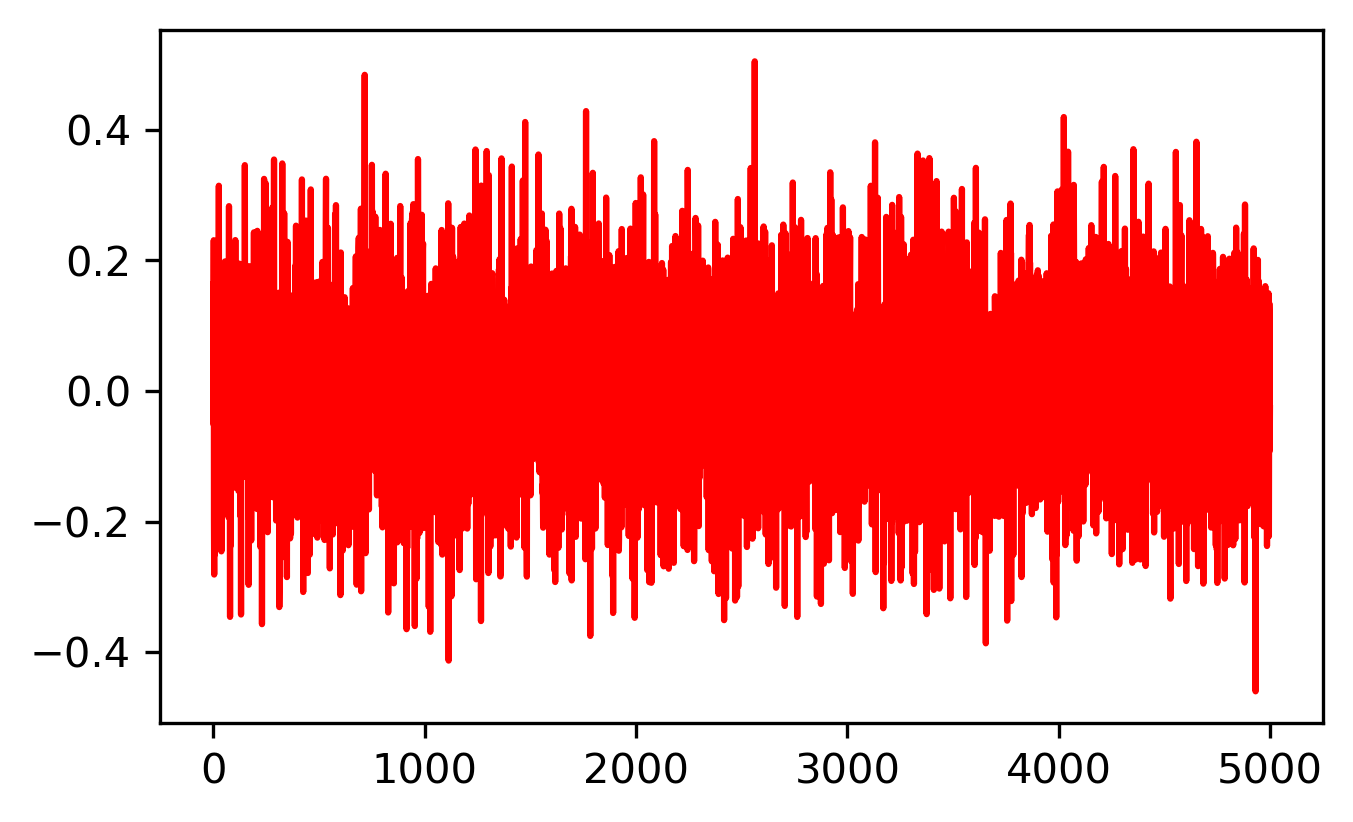
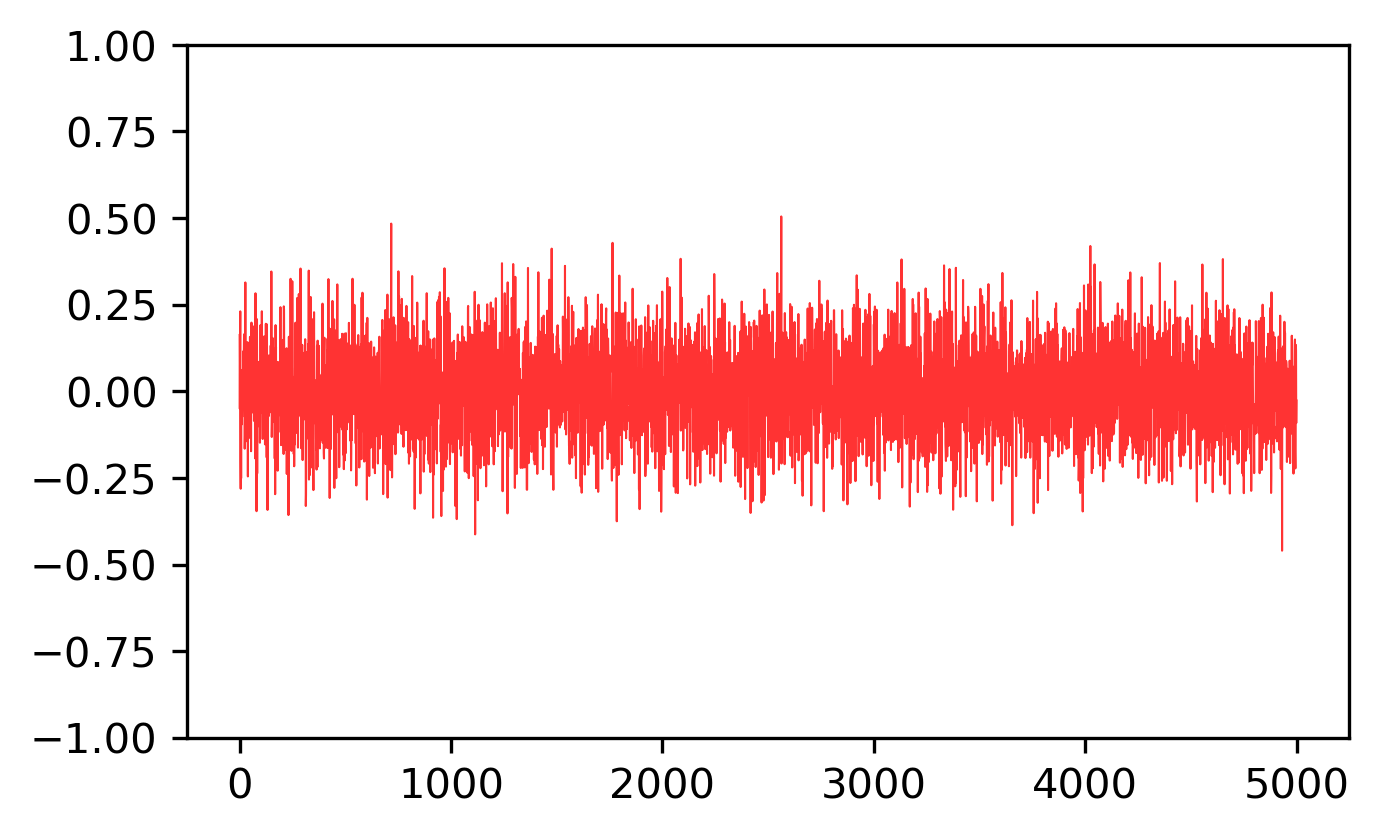
update

diff --git a/main.py b/main.py
@@ -1,4 +1,5 @@
 import os
+import time
 from matplotlib import pyplot as plt
 import numpy as np
 from sklearn.linear_model import LassoCV, Ridge, RidgeCV, ridge_regression
@@ -6,7 +7,7 @@ from sklearn.metrics import mean_squared_error
 from sklearn.model_selection import GridSearchCV, RepeatedKFold
 from code.em_algorithm import EMAlgorithm
 from code.lasso import ElasticNet, lambda_search
-from code.utils import cv_boxplot, generate_data, load_data, plot_E_beta, plot_E_beta_2, plot_E_beta_2_diag, split_train_test, cross_validate
+from code.utils import cv_boxplot, execution_time, generate_data, load_data, plot_E_beta, plot_E_beta_2, plot_E_beta_2_diag, plot_E_beta_difference, split_train_test, cross_validate
 from code.variational_inference import VariationalInference
 
 
@@ -16,9 +17,9 @@ def em_algorithm(y, Z, X, omega_init, sigma_b2_init, sigma_e2_init, max_iter=200
     em_params = {'max_iter': max_iter, 'tol': tol, 'omega': omega_init, 'sigma_b2': sigma_b2_init, 'sigma_e2': sigma_e2_init}
     em = EMAlgorithm(**em_params)
 
-    log_marginal_likelihoods, Theta, E_beta = em.fit(y, Z, X)
+    log_marginal_likelihoods, Theta, E_beta = execution_time(em.fit, y, Z, X)
 
-    print("Log marginal likelihoods:", log_marginal_likelihoods)
+    # print("Log marginal likelihoods:", log_marginal_likelihoods)
     print("Estimate of Theta:", Theta)
     # print("Posterior mean of beta:", E_beta)
 
@@ -43,7 +44,7 @@ def variational_inference(y, Z, X, omega_init, sigma_b2_init, sigma_e2_init, max
     vi_params = {'max_iter': max_iter, 'tol': tol, 'omega': omega_init, 'sigma_b2': sigma_b2_init, 'sigma_e2': sigma_e2_init}
     vi = VariationalInference(**vi_params)
 
-    log_marginal_likelihoods, Theta = vi.fit(y, Z, X)
+    log_marginal_likelihoods, Theta = execution_time(vi.fit, y, Z, X)
   
     print("Log marginal likelihoods:", log_marginal_likelihoods)
     print("Estimate of Theta:", Theta)
@@ -71,7 +72,8 @@ def lasso(y, Z, X, cv_folds=10):
     lasso_params = {'alpha': 0.01227734, 'fit_intercept': False, 'l1_ratio': 1.0, 'max_iter': 1000}
     lasso = ElasticNet(**lasso_params)
     
-    lasso.fit(y, Z, X)
+    execution_time(lasso.fit, y, Z, X)
+
     y_pred = lasso.predict(Z, X)
 
     print('LASSO Train MSE:', mean_squared_error(y, y_pred)) # Calculate MSE
@@ -88,7 +90,7 @@ def lasso(y, Z, X, cv_folds=10):
     # Search for the best lambda
     lambdas = np.arange(-8, 0, 0.1)
     lambdas = np.exp(lambdas)
-    min_mse, min_average_row = lambda_search(y, Z, X, ElasticNet, lasso_params, lambda_list = lambdas, save_path='outputs/lasso_cv_mses_all.csv', cv_folds=cv_folds)
+    min_mse, min_average_row = execution_time(lambda_search, y, Z, X, ElasticNet, lasso_params, lambda_list = lambdas, save_path='outputs/lasso_cv_mses_all.csv', cv_folds=cv_folds)
     print("Minimum MSE:", min_mse)
     print("Minimum average row:", min_average_row)
 
@@ -104,14 +106,14 @@ if __name__ == '__main__':
     # em_algorithm(y, Z, X, omega_init=np.zeros(10), sigma_b2_init=1, sigma_e2_init=1, max_iter=1000, tol=1e-6, cv_folds=10)
 
     # plot_E_beta_2(data_path='outputs/E_beta_2_em.npy', save_path='outputs/E_beta_2_em.png')
-    # plot_E_beta(data_path='outputs/E_beta_em.npy', save_path='outputs/E_beta_em.png')
+    plot_E_beta(data_path='outputs/E_beta_em.npy', save_path='outputs/E_beta_em.png')
     # plot_E_beta_2_diag(data_path='outputs/E_beta_2_em.npy', save_path='outputs/E_beta_2_diag_em.png')
 
     # ---------------- Lasso -----------------
 
     lasso(y, Z, X, cv_folds=10)
 
-    plot_E_beta(data_path='outputs/E_beta_vi.npy', save_path='outputs/E_beta_vi.png')
+    # plot_E_beta(data_path='outputs/E_beta_vi.npy', save_path='outputs/E_beta_vi.png')
 
     # cv_boxplot(cv_mses_dirs=['outputs/em_cv_mses.csv', 'outputs/lasso_cv_mses.csv'], save_path='outputs/cv_boxplot.png', labels=['EM', 'LASSO'])    
 
@@ -119,10 +121,17 @@ if __name__ == '__main__':
 
     # variational_inference(y, Z, X, omega_init=np.zeros(10), sigma_b2_init=0.8, sigma_e2_init=0.2, max_iter=100, tol=1e-6, cv_folds=10)
 
-    # plot_E_beta(data_path='outputs/E_beta_vi.npy', save_path='outputs/E_beta_vi.png')
+    plot_E_beta(data_path='outputs/E_beta_vi.npy', save_path='outputs/E_beta_vi.png')
+    # plot_E_beta_2(data_path='outputs/E_beta_2_vi.npy', save_path='outputs/E_beta_2_vi.png')
     # plot_E_beta_2_diag(data_path='outputs/E_beta_2_diag_vi.npy', save_path='outputs/E_beta_2_diag_vi.png')
 
-    cv_boxplot(cv_mses_dirs=['outputs/em_cv_mses.csv', 'outputs/lasso_cv_mses.csv', 'outputs/vi_cv_mses.csv'], save_path='outputs/cv_boxplot_2.png', labels=['EM', 'LASSO', 'VI'])
+    # cv_boxplot(cv_mses_dirs=['outputs/em_cv_mses.csv', 'outputs/lasso_cv_mses.csv', 'outputs/vi_cv_mses.csv'], save_path='outputs/cv_boxplot_2.png', labels=['EM', 'LASSO', 'VI'])
+
+
+
+    # ---------------------------------------   
+
+    plot_E_beta_difference(data_path_em='outputs/E_beta_em.npy', data_path_vi='outputs/E_beta_vi.npy', save_path='outputs/E_beta_difference.png')
 
     
 

diff --git a/code/utils.py b/code/utils.py
@@ -1,3 +1,4 @@
+import time
 from matplotlib import pyplot as plt
 import numpy as np
 import pandas as pd
@@ -121,6 +122,25 @@ def plot_E_beta(data_path, save_path='outputs/E_beta.png'):
     E_beta = np.load(data_path)
 
     plt.figure(figsize=(5, 3), dpi=300)
-    plt.plot(E_beta, color='red')
+    plt.plot(E_beta, color='red', lw=0.5, alpha=0.8)
+    plt.ylim((-1, 1))
     plt.savefig(save_path, bbox_inches='tight')
     plt.close()
+
+def plot_E_beta_difference(data_path_em, data_path_vi, save_path='outputs/E_beta_difference.png'):
+    E_beta_em = np.load(data_path_em)
+    E_beta_vi = np.load(data_path_vi)
+
+    plt.figure(figsize=(5, 3), dpi=300)
+    plt.plot(np.abs(E_beta_em - E_beta_vi), color='black', lw=0.5, alpha=0.8)
+    plt.ylim((-1, 1))
+    plt.savefig(save_path, bbox_inches='tight')
+    plt.close()
+
+def execution_time(func, *args, **kwargs):
+    start_time = time.time()
+    result = func(*args, **kwargs)
+    end_time = time.time()
+    execution_time = end_time - start_time
+    print(f"Time: {execution_time} s")
+    return result

diff --git a/code/variational_inference.py b/code/variational_inference.py
@@ -131,11 +131,14 @@ class VariationalInference:
         self.Theta = Theta
         self.E_beta = m
         self.E_beta_2_diag = s2
+        self.E_beta_2 = np.linalg.inv(XTX / sigma_e2 + np.eye(p) / sigma_b2)
+        self.E_beta = self.E_beta_2 @ X.T @ (y - Z @ omega)
 
         np.savetxt('outputs/log_marginal_likelihoods_vi.csv', log_marginal_likelihoods, delimiter=',')
         np.savetxt('outputs/ELBOs.csv', ELBOs, delimiter=',')
 
         np.save('outputs/E_beta_vi.npy', self.E_beta)
+        np.save('outputs/E_beta_2_vi.npy', self.E_beta_2)
         np.save('outputs/E_beta_2_diag_vi.npy', self.E_beta_2_diag)
 
         return log_marginal_likelihoods, Theta
